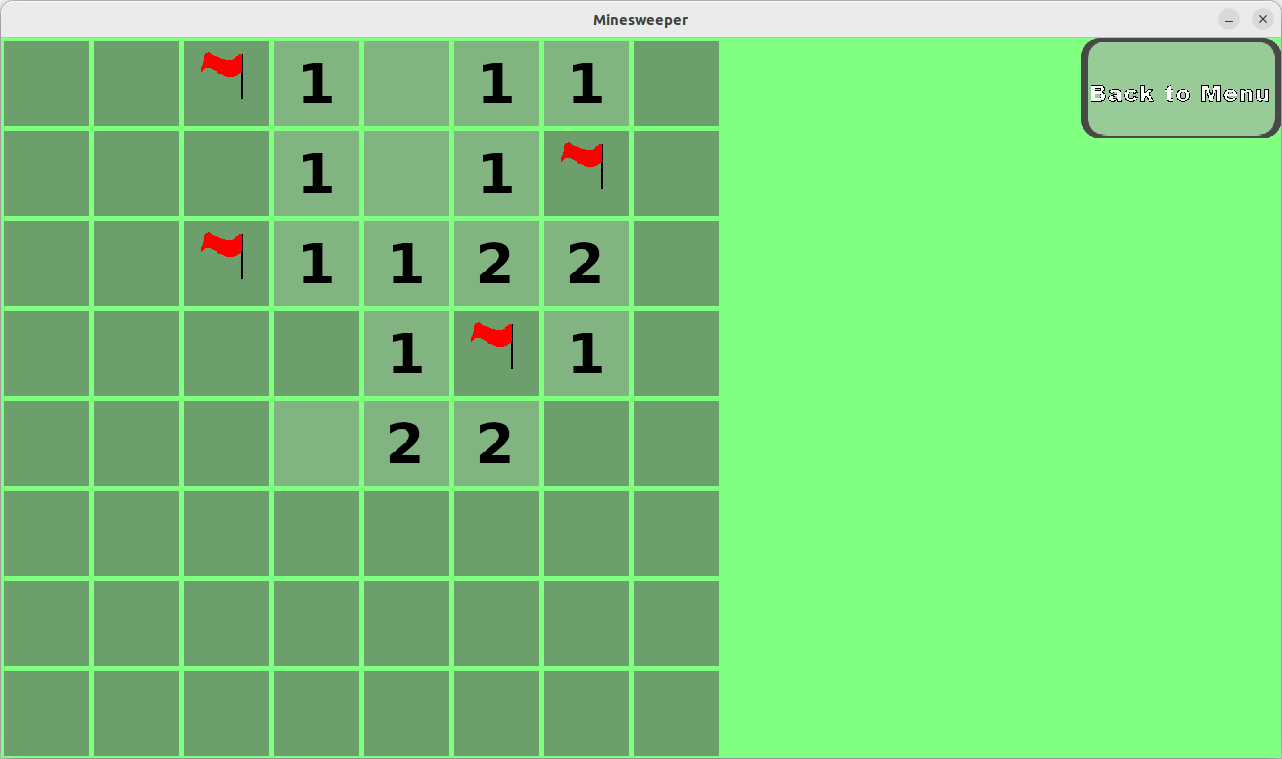
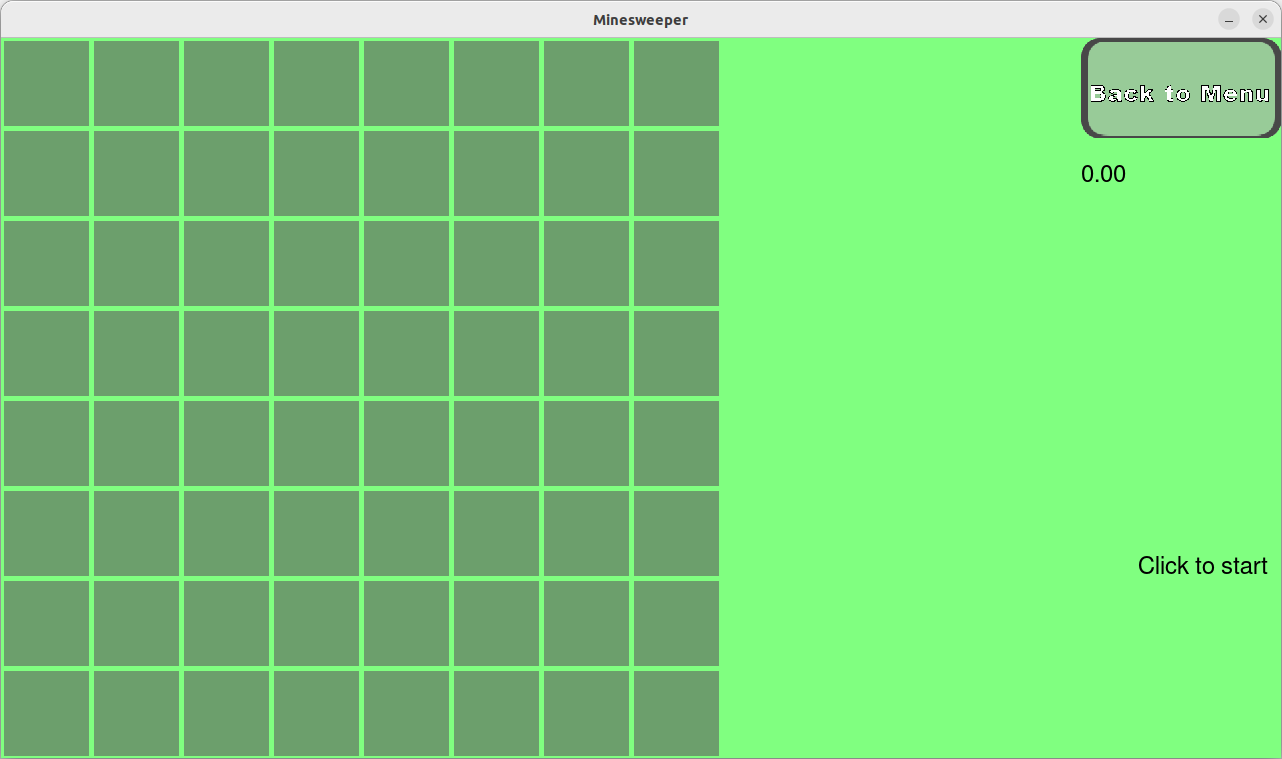
päivitetty käyttöohje ajankohtaisilla screenshoteilla

diff --git a/documentation/kayttoohje.md b/documentation/kayttoohje.md
@@ -1,6 +1,6 @@
 # Käyttöohje
 
-Lataa [viimeisimmän releasen](https://github.com/thefakejj/ot-harjoitustyo/releases/tag/viikko6) lähdekoodi tai kloonaa vaikka [repositorio](https://github.com/thefakejj/ot-harjoitustyo) koneellesi.
+Kloonaa [repositorio](https://github.com/thefakejj/ot-harjoitustyo) koneellesi. (myöhemmin tähän release)
 
 ## Ohjelman käynnistäminen
 
@@ -25,13 +25,31 @@ poetry run invoke start
 
 ## Pelin pelaaminen
 
-Valitse klikkailemalla ruudukon koko ja paina "Play"
+Jotta voit pelata peliä, sinun tulee asettaa jokin nimi "Name"-kenttään.
 ![menu](./kuvat/menu_screenshot.png)
 
+Kun olet valinnut nimen, voit aloittaa pelin klikkaamalla "Play".
+![menu_name](./kuvat/menu_name_screenshot.png)
 
-Avaa ensimmäinen ruutu hiiren vasemmalla painikkeella, minkä jälkeen miinat satunnaisesti muodostuvat. Voit liputtaa ruudun oikealla painikkeella. Pelin sisällä avaamasi ruutu näyttää sitä ympäröivien miinojen määrän. Tyhjä avattu ruutu vastaa nollaa ympäröivää miinaa. Voit palata valikkoon "Back to menu" -nappia painamalla.
+
+Avaa ensimmäinen ruutu hiiren vasemmalla painikkeella, minkä jälkeen miinat satunnaisesti muodostuvat. Voit liputtaa ruudun oikealla painikkeella.
 ![game](./kuvat/game_screenshot.png)
 
-Paljastettu miina näyttää tältä. Olehan varovainen!
+Kun klikkaat ruudusta, pelin kello käynnistyy. Pelin sisällä avaamasi ruutu näyttää sitä ympäröivien miinojen määrän. Tyhjä avattu ruutu vastaa nollaa ympäröivää miinaa. Voit palata valikkoon "Back to menu" -nappia painamalla. Peli muistaa nimesi, kun palaat menuun.
+![game](./kuvat/game_started_screenshot.png)
 
+Jos paljastat miinan, häviät pelin ja kaikki liputtamattomat miinat paljastuu.
 ![mine](./kuvat/mine_screenshot.png)
+
+Jos onnisut paljastamaan kaikki miinattomat ruudut, voitat pelin ja kaikki liputtomat miinat paljastuu.
+![win](./kuvat/game_win_screenshot.png)
+
+
+## Tulostaulu
+
+Tulostaulua pääsee katsomaan menusta "Leaderboard"-painikkeesta. Näkymässä näkyy sen vaikeustason tulostaulu, mikä ollaan valittu menussa Field sizella.
+![menu_leaderboard](./kuvat/menu_leaderboard_screenshot.png)
+
+Tietyn vaikeustason tulokset näkyvät tulostaulukossa näin:
+![leaderboard](./kuvat/leaderboard_screenshot.png)
+Takaisin menuun pääsee "Back to menu" -painikkeesta.

diff --git a/documentation/tuntikirjanpito.md b/documentation/tuntikirjanpito.md
@@ -16,5 +16,5 @@ Viikko 7 aikana tuntikirjanpito unohtui, joten laitan tänne vain sen tiedon mis
 | 25.4 | 5   | Käyttäjä voi nyt liputtaa ruutuja, joita ei sen jälkeen voi avata. UiGridille on siis tehty päivittämismetodi. Click-eventtien tulkitseminen siirretty omaan luokkaansa. Muokattu injektioita niin, että vain tarvittavat tulee uuden metodin tai luokan käyttöön (useimmiten). Lisätty sivupalkin nappien defaulttikoko. Lisätty testejä. Lintattu. Päivitetty changelog. Tehty release.|
 |27.4|3|miinat paljastuu. muutettu koodia niin, että tarvitaan vähemmän parametreja.|
 |2.5|12|peli on nyt "pelattavissa"! luotu grafiikat miinaharavan numeroille ja sivunapille. tehty docstringiä, käyttöohjetta, arkkitehtuurikuvausta, changelogia, testejä, linttiä.|
-|10.5|    | lisätty leaderboard ja miinojen paljastaminen peliin (useiden vaiheiden kautta)| 
-|yhteensä|64.5|tuntia|
+|10.5|4.5| lisätty leaderboard ja miinojen paljastaminen peliin (useiden vaiheiden kautta), päivitetty vaatimusmäärittely ja changelog. päivitetty käyttöohjetta| 
+|yhteensä|69|tuntia|
